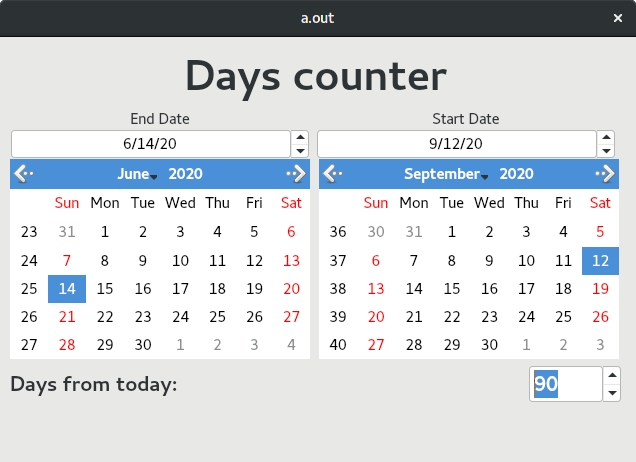
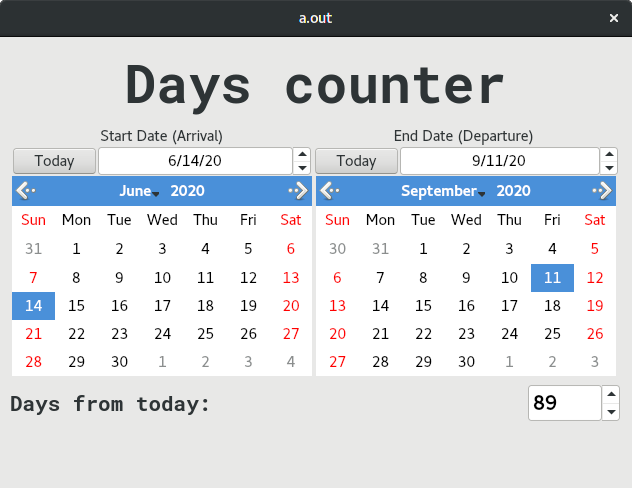
Update README.md

diff --git a/mainWidget.h b/mainWidget.h
@@ -1,5 +1,6 @@
 #include "ui_qounter.h"
 #include <QtCore/QDate>
+#include <QtCore/QSignalMapper>
 
 class MainWidget: public QWidget {
   Q_OBJECT
@@ -11,11 +12,32 @@ class MainWidget: public QWidget {
       this->connect(ui.EndateEdit, SIGNAL(dateChanged(const QDate&)), this, SLOT(onDateChanged(const QDate&)));
       this->connect(ui.daysFromNow, SIGNAL(valueChanged(int)), this, SLOT(onDateChanged(int)));
 
+      QSignalMapper* signalMapper = new QSignalMapper(this);
+      this->connect(ui.StartTodayPushButton, SIGNAL(pressed()), signalMapper, SLOT(map()));
+      this->connect(ui.EndTodayPushButton, SIGNAL(pressed()), signalMapper, SLOT(map()));
+
+      signalMapper->setMapping(ui.StartTodayPushButton, 0);
+      signalMapper->setMapping(ui.EndTodayPushButton, 1);
+
+      this->connect(signalMapper, SIGNAL(mapped(int)), this, SLOT(onTodayPessed(int)));
+
       ui.StartDateEdit->setDate(QDate::currentDate());
       ui.EndateEdit->setDate(QDate::currentDate());
     }
 
   public slots:
+    void onTodayPessed(int selection)
+    {
+      switch (selection) {
+        case 0:
+          ui.StartDateEdit->setDate(QDate::currentDate());
+          break;
+
+        case 1:
+          ui.EndateEdit->setDate(QDate::currentDate());
+          break;
+      }
+    }
 
     void onDateChanged(int value)
     {

diff --git a/README.md b/README.md
@@ -1,3 +1,22 @@
-# quonter
+# Qounter (QT days counter)
 
-QT days counter (useful for VISA stays and others)
+---
+
+![alt text](https://github.com/vicentebolea/quonter/raw/master/qounter.png)
+
+---
+
+# INSTALL
+
+1. Install Qt:
+  - Ubuntu/Debians
+
+    sudo apt-get install qt5-default
+
+  - OpenSUSE
+
+    sudo zypper in -t pattern devel_qt5
+
+2. Compile and Install
+
+    make && sudo make install
